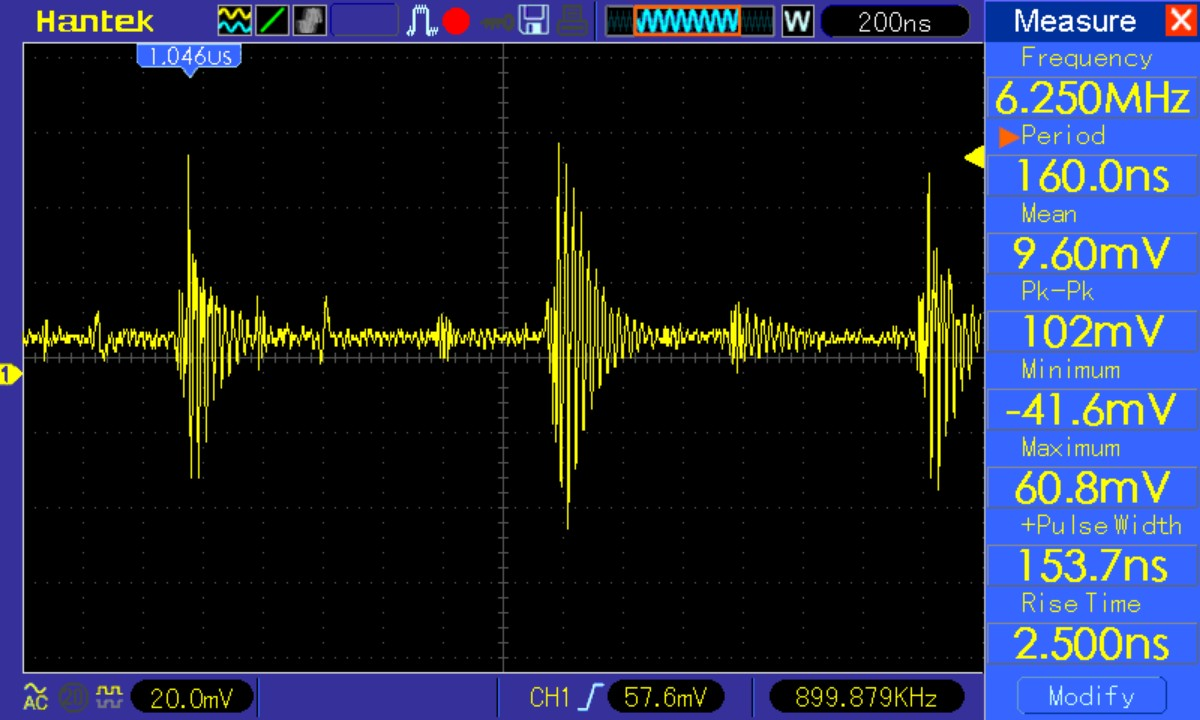
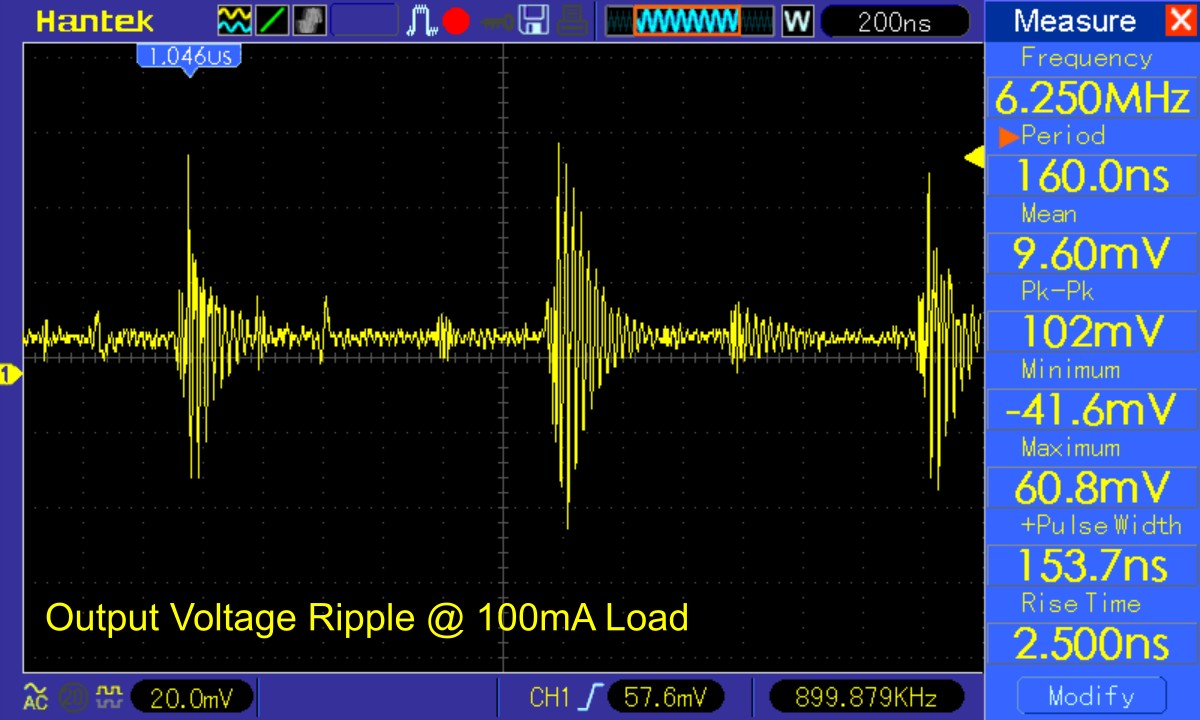
Update documentation

Changed region(s): [[0.0308, 0.825, 0.5858, 0.8861]]

diff --git a/README.md b/README.md
@@ -161,6 +161,8 @@ int main(void) {
 
 ![perf1.png](https://raw.githubusercontent.com/wagiminator/ATtiny412-USB-Power-Isolator/main/documentation/USB_Power_Isolator_perf1.png)
 ![scope1.jpg](https://raw.githubusercontent.com/wagiminator/ATtiny412-USB-Power-Isolator/main/documentation/USB_Power_Isolator_scope1.jpg)
+![scope2.jpg](https://raw.githubusercontent.com/wagiminator/ATtiny412-USB-Power-Isolator/main/documentation/USB_Power_Isolator_scope2.jpg)
+![scope3.jpg](https://raw.githubusercontent.com/wagiminator/ATtiny412-USB-Power-Isolator/main/documentation/USB_Power_Isolator_scope3.jpg)
 
 # References, Links and Notes
 1. [ATtiny412 Datasheet](https://ww1.microchip.com/downloads/en/DeviceDoc/ATtiny212-214-412-414-416-DataSheet-DS40002287A.pdf)
